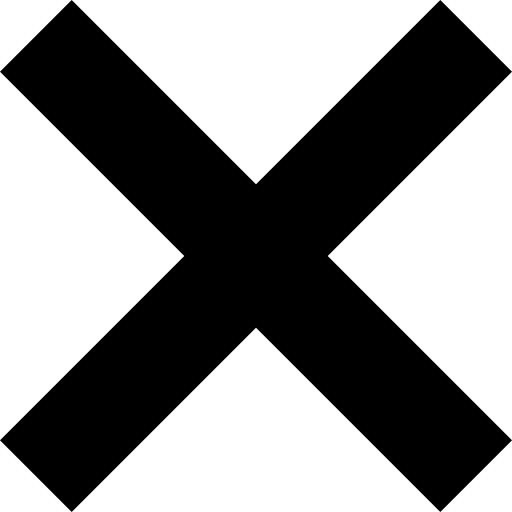
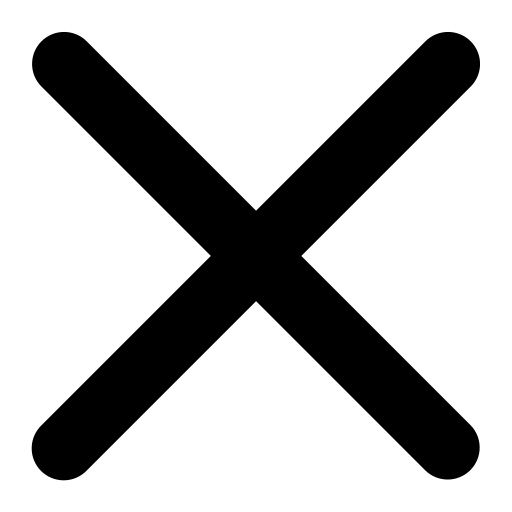
Added CSS responsiveness and formatting correctly. In the process of implementing overlay UIs.

Changed region(s): [[0.0, 0.0, 1.0, 1.0]]

diff --git a/style.css b/style.css
@@ -6,10 +6,10 @@
 * {
     box-sizing: border-box;
     margin: 0;
+    padding: 0;
 }
 
 .hero {
-    background-color: red;
     background-image: url('hero2.jpg');
     background-size: cover;
     background-position: center;
@@ -23,30 +23,54 @@
     font-family: var(--nav-font);
     justify-content: flex-end;
     align-items: center;
-    padding: 1rem 5rem;
+    padding: 1rem 2rem;
+    gap: 6rem;
 }
 
 .navbar a {
     text-decoration: none;
+    text-shadow: 5px 5px 10px black;
     font-size: 1.5rem;
-    color: inherit;
+    color: hsl(0, 0%, 0%);
+    display: inline;
 }
 
 .nav-menu {
-    display: flex;
-    gap: 6rem;
+    display: none;
+    background-color: beige;
+    position: absolute;
+    z-index: 999;
+    top: 0;
     list-style: none;
+    gap: 6rem;
+    right: 0;
+    width: 20%;
+    height: 100vh;
 }
 
-/* Mobile: hide toggle button on desktop */
-.nav-toggle {
-  display: none;
+.nav-menu.show {
+    display: flex;
+    padding-top: 10%;
+    padding-left: 1%;
+    flex-direction: column;
+    border-left: solid 3px black;
 }
 
-.hamburger {
+.hamburger-btn {
+    display: flex;
+    z-index: 1000;
+    background-color: beige;
+    border: solid black;
+    border-width: 3px;
+    border-radius: 50%;
+    width: 64px;
+    padding: 2px;
+    justify-content: center;
+    box-shadow: 0 4px 12px rgba(0,0,0,0.15);
+}
+
+.hamburger-btn img {
     width: 32px;
-    height: 32px;
-    display: block;
 }
 
 .ctaContainer {
@@ -55,13 +79,14 @@
     display: flex;
     flex-direction: column;
     gap: 1rem;
-    top: 8%;
-    left: 13%;
+    top: 2%;
+    left: 5%;
 }
 
 .logo {
     font-family: var(--logo-heading);
     font-size: 8rem;
+    text-shadow: 5px 5px 10px grey;
 }
 
 .ctaButtons {
@@ -70,50 +95,90 @@
 }
 
 .ctaButton {
-    background-color: white;
+    background-color: beige;
+    border: 3px solid black;
     font-size: 1rem;
     height: 3rem;
     width: 10rem;
 }
 
-.signupButton {
-    position: absolute;
-    font-family: var(--nav-font);
-    height: 4rem;
-    width: 10rem;
-    top: 15%;
-    right: 10%;
+.ctaButton a {
+    text-decoration: none;
+    color: inherit;
+    font-weight: 500;
 }
 
-.signupButton a {
-   font-size: 1rem; 
-   color: inherit;
-   text-decoration: none;
-}
-
-/* Mobile styles (768px and below) */
-@media (max-width: 768px) {
-  /* Show the hamburger button */
-  .nav-toggle {
-    display: block;
-    background: none;
-    border: none;
-    cursor: pointer;
-  }
-  
-  /* Hide menu by default, stack vertically */
-  .nav-menu {
+/* OVERLAYS */
+.overlay {
     display: none;
-    flex-direction: column;
-    position: absolute;
-    top: 60px;
+    position: fixed;
+    top: 0;
+    left: 0;
     right: 0;
-    background: white;
-    width: 100%;
-  }
-  
-  /* Show menu when "active" class is added */
-  .nav-menu.active {
+    bottom: 0;
+    background-color: rgba(0,0,0,0.8);
+    color: white;
+    z-index: 1001;
+    align-items: center;
+    justify-content: center;
+    text-align: center;
+}
+
+.overlay.active {
     display: flex;
-  }
+}
+
+.overlay-content {
+    max-width: 600px;
+    margin: 0 auto;
+    padding: 20px;
+    background-color: black;
+    border-radius: 8px;
+}
+
+.navbar.hidden {
+    display: none;
+}
+
+/* MEDIA QUERIES */
+@media (max-width: 1200px) {
+    .logo {
+        font-size: 6rem;
+    }
+    .nav-menu.show {
+        width: 25%;
+    }
+}
+
+@media (max-width: 915px) {
+    .hamburger-btn {
+        width: 48px;
+    }
+    .hamburger-btn img {
+        width: 24px;
+    }
+    .logo {
+        font-size: 3rem;
+    }
+    .ctaContainer {
+        font-size: .85rem;
+        gap: 2rem;
+        left: 5%;
+    }
+    .ctaButtons {
+        flex-direction: column;
+        padding-left: 10%;
+        gap: 2rem;
+    }
+    .navbar {
+        padding: 1rem 2rem;
+    }
+    .nav-menu.show {
+        padding-top: 30%;
+        padding-left: 2.5%;
+        width: 35%;
+    }
+    .ctaButton {
+        font-size: .85rem;
+    }
 }

diff --git a/index.html b/index.html
@@ -13,33 +13,61 @@
     <!-- HTML Structure -->
     <main class="hero">
     <nav class="navbar">
-  
-    <!-- Hamburger button (hidden on desktop) -->
-    <button class="nav-toggle">
-    <img src="hamburger.png" alt="Menu" class="hamburger"></span>
+    <button class="hamburger-btn" alt="MenuButton" onclick="toggleMenu()">
+    <img src="hamburger.png" alt="Menu" id="hamburger-icon">
     </button>
-  
     <!-- Menu (collapses on mobile) -->
-        <ul class="nav-menu" id="navMenu">
-            <li><a href="#home">Home</a></li>
+        <ul class="nav-menu">
+            <li><a href="#products">Products</a></li>
             <li><a href="#about">About</a></li>
             <li><a href="#contact">Contact</a></li>
             <li><a href="#signup">Sign Up</a></li>
         </ul>
     </nav>
     <div class="ctaContainer">
-        <span class="logo">Furniteria</h1></span>
+        <h1><span class="logo">Furnituria</h1></span>
         <p>Your domain for high-quality home appliances.</p>
         <div class="ctaButtons">
-        <button class="ctaButton" id="products">View Our Products</button>
-        <button class="ctaButton" id="contact">Contact Us</button>
+        <button class="ctaButton"><a href="#products">View Our Products</a></button>
+        <button class="ctaButton"><a href="#signup">Sign Up!</a></button>
+        </div>
     </div>
+        
     </div>
-    <button class="signupButton"><a href="signup">Sign Up!</a></button>
+
+    <!-- Overlays -->
+    <section id="products-overlay" class="overlay">
+        <div class="overlay-content">
+            <h1>HorsDung.</h1>
+            <p>Ay Ay Ay Oy Ay</p>
+        </div>
+    </section>
+
+    <section id="about-overlay" class="overlay">
+        <div class="overlay-content">
+            <h1>HorsDung.</h1>
+            <p>Ay Ay Ay Oy Ay</p>
+        </div>
+    </section>
+
+    <section id="contact-overlay" class="overlay">
+        <div class="overlay-content">
+            <h1>HorsDung.</h1>
+            <p>Ay Ay Ay Oy Ay</p>
+        </div>
+    </section>
+
+    <section id="signup-overlay" class="overlay">
+        <div class="overlay-content">
+            <h1>HorsDung.</h1>
+            <p>Ay Ay Ay Oy Ay</p>
+        </div>
+    </section>
+
 </main>
 <script src="script.js"></script>
 </body>
 </html>
 
-<!-- close.png - Creative Stall Premium -->
-<!-- hamburger.png - meaicon -->
+<!-- close.png - edt.im -->
+<!-- hamburger.png - feen -->

diff --git a/script.js b/script.js
@@ -1,4 +1,5 @@
 // Modern approach
+/*
 const navToggle = document.querySelector('.nav-toggle');
 const navMenu = document.querySelector('.nav-menu');
 
@@ -9,9 +10,25 @@ const closeButtons = document.querySelectorAll('.close-overlay');
 const overlayLogo = document.getElementById('overlayLogo');
 const navbar = document.querySelector('.navbar');
 const hero = document.querySelector('.hero');
+const menu = document.querySelectorAll('.nav-menu')
+const hamburgericon = document.getElementById('hamburger-icon')
+*/
+
+// Declare all necessary variables
+const navToggle = document.querySelector('.nav-toggle'); // The hamburger icon toggle button
+const navMenu = document.querySelector('.nav-menu'); // The menu itself
+const navLinks = document.querySelectorAll('.nav-link'); // Links inside the menu
+const overlays = document.querySelectorAll('.overlay'); // The overlays
+const closeButtons = document.querySelectorAll('.close-overlay'); // Buttons to close overlays
+const overlayLogo = document.getElementById('overlayLogo'); // Logo inside overlay
+const navbar = document.querySelector('.navbar'); // The navbar
+const hero = document.querySelector('.hero'); // Hero section
+const menu = document.querySelectorAll('.nav-menu'); // Multiple menus, if any
+const hamburgericon = document.getElementById('hamburger-icon'); // The hamburger icon image
+
 
 // Open overlay
-navLinks.forEach(link => {
+menu.forEach(link => {
   link.addEventListener('click', (e) => {
     const target = e.target.getAttribute('href').substring(1); // remove #
     
@@ -56,4 +73,13 @@ function closeAllOverlays() {
   overlays.forEach(overlay => overlay.classList.remove('active'));
   overlayLogo.classList.remove('active');
   navbar.classList.remove('hidden');
+}
+
+function toggleMenu() {
+    navMenu.classList.toggle('show');
+    if (menu.classList.contains('show')) {
+        hamburgericon.src = 'close.png';
+    } else {
+        hamburgericon.src = 'hamburger.png';
+    }
 }
